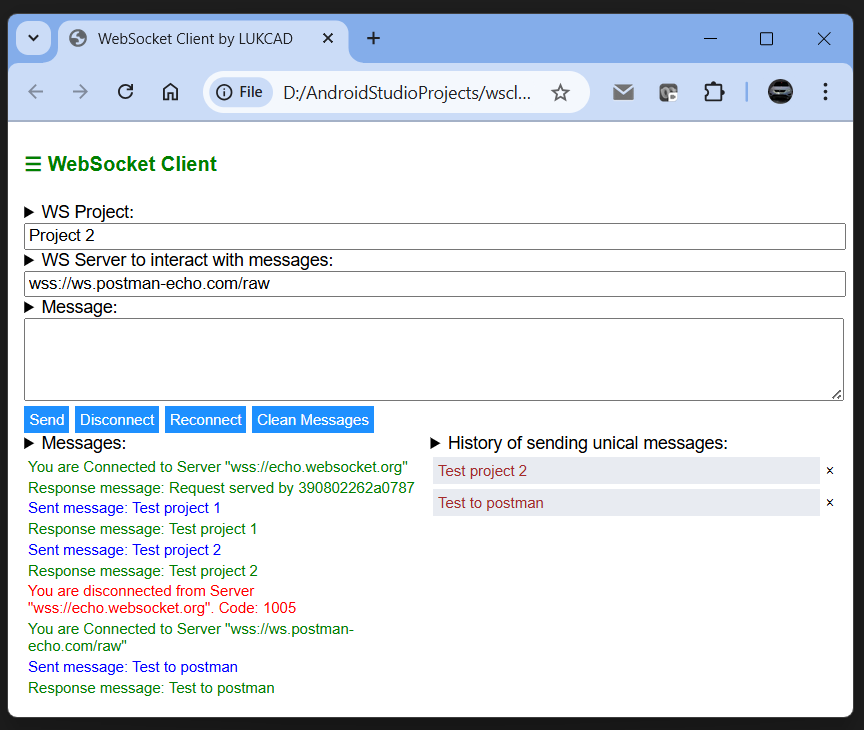
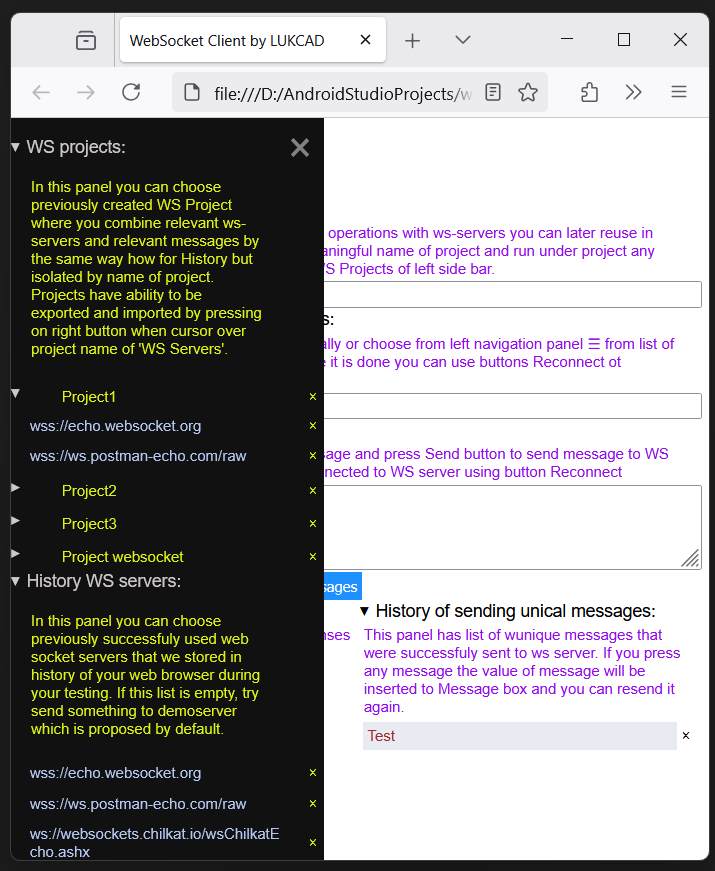
version 1.0.18

diff --git a/wsclient.html b/wsclient.html
@@ -261,6 +261,30 @@
             background: #bbb;
         }
 
+        #menuWSProjectsActions {
+            position: absolute;
+            margin: 0;
+            z-index: 2;
+            padding: 0;
+            width: 140px;
+            background-color: white;
+        }
+
+        #menuWSProjectsActions p {
+            height: 18px;
+            border: 1px solid black;
+            margin: 0;
+            padding: 0.5rem;
+            cursor: pointer;
+            display: flex;
+            flex-direction: column;
+            align-items: center;
+            justify-content: center;
+        }
+
+        #menuWSProjectsActions p:hover {
+            background-color: #D3D3D3;
+        }
 
 
         #menuProjectActions {
@@ -295,10 +319,10 @@
     <div id="barSideNav" class="sidenav">
         <a href="javascript:void(0)" class="closebtn" onclick="closeNav()">&times;</a>
         <details>
-            <summary>WS projects:</summary>
+            <summary title="press right button to open context menu" oncontextmenu="openMenuWSProjectsActions(event)">WS projects:</summary>
             <p>In this panel you can choose previously created WS Project where you combine relevant ws-servers and
                 relevant messages by the same way how for History but isolated by name of project. Projects have ability
-                to be exported and imported.</p>
+                to be exported and imported by pressing on right button when cursor over project name of 'WS Servers'.</p>
         </details>
         <div id="listWsProjects"></div>
         <details ontoggle="showHistoryWsServers()">
@@ -314,13 +338,13 @@
         <h4>
             <div style="cursor:pointer" onclick="openNav()">&#9776; WebSocket Client</div>
         </h4>
-        <details>
+        <details >
             <summary>WS Project:</summary>
             <p> You can point name of project and your next operations with ws-servers you can later reuse in separate
                 cluster from main history. Give meaningful name of project and run under project any socket and then you
                 can find this name in WS Projects of left side bar.</p>
         </details>
-        <input type="text" id="nameProject" onchange="changeProejct()" value="" /> </br>
+        <input type="text" id="nameProject" onchange="changeProject()" value="" /> </br>
         <details>
             <summary>WS Server to interact with messages:</summary>
             <p>You should point here your ws server manually or choose from left navigation panel &#9776; from list of
@@ -338,11 +362,20 @@
         <button class="btn" onclick="reConnect()">Reconnect</button>
         <button class="btn" onclick="clearScreen()">Clean Messages</button>
 
+        <!--Action menu for WS Porjects title. Hidden and appear only by right click-->
+        <div id="menuWSProjectsActions" style="display: none;">
+            <p id="importWSProjects" onclick="clickMenuItemOnWSProjectsActions(event)">Import project</p>
+            <p id="closeWSProjectsMenu" onclick="clickMenuItemOnWSProjectsActions(event)">Close menu</p>
+        </div>
+
         <!--Action menu for porjects. Hidden and appear only by right click-->
         <div id="menuProjectActions" style="display: none;">
-            <p id="exportProject" onclick="clickMenuItemOrijectAction(event)">Export project</p>
-            <p id="closeProjectMenu" onclick="clickMenuItemOrijectAction(event)">Close menu</p>
+            <p id="exportProject" onclick="clickMenuItemOnProjectActions(event)">Export project</p>
+            <p id="closeProjectMenu" onclick="clickMenuItemOnProjectActions(event)">Close menu</p>
         </div>
+        <!-- hidden button to use for import projects for choosing files-->
+        <input type="file" id="projectimportfiles" onchange="readImportedProjectText(this)" name="files[]" hidden="true"
+            multiple />
 
         <div class="main">
             <div class="topRow"></div>
@@ -478,6 +511,36 @@
                 document.getElementById('nameServer').value = wsUri;
             }
 
+            function openMenuWSProjectsActions(e) {
+
+                e.preventDefault();
+
+                var menu = document.getElementById("menuWSProjectsActions");
+
+                // show 'context menu'
+                menu.style.left = e.pageX + "px";
+                menu.style.top = e.pageY + "px";
+                menu.style.display = "block";
+            }
+
+            function clickMenuItemOnWSProjectsActions(et) {
+                // do operations according to context menu here:
+
+                var actionName = et.target.id;
+
+                if (actionName === 'importWSProjects') {
+                    document.getElementById('projectimportfiles').click();
+                }
+
+
+                if (actionName === 'closeWSProjectsMenu') {
+                    // do nothing, because next code close this menu
+                }
+
+                // hide 'context menu'
+                et.target.parentElement.style.display = "none";
+            }
+
             function openMenuProjectActions(e) {
 
                 e.preventDefault();
@@ -495,7 +558,7 @@
                 menu.style.display = "block";
             }
 
-            function clickMenuItemOrijectAction(et) {
+            function clickMenuItemOnProjectActions(et) {
                 // do operations according to context menu here:
                 var _wsprojectname = et.target.title;
                 var _wsprojectid = convertProjectNameToId(_wsprojectname) ?? '';
@@ -526,12 +589,46 @@
                 et.target.parentElement.style.display = "none";
             }
 
+            async function readImportedProjectText(input) {
+                try {
+                    var file = input.files[0];
+                    //var filename = file.name;
+                    var txt = await file.text();
+
+                    var lines = txt.split('\n');
+                    for (var index = 0; index < lines.length; index++) {
+                    var line = lines[index];
+                    if (line.includes('projectname:')) {
+                        var _projectname = line.split('projectname:')[1];
+                        if (_projectname !== '') {
+                            if (arrProjects.indexOf(_projectname) < 0) {
+                                arrProjects.push(_projectname);
+                                var json_prj_str = JSON.stringify(arrProjects);
+                                localStorage.setItem("wsmsprojects", json_prj_str);
+                                reloadProjects();
+                            }
+                        }
+
+                    } else
+                    if (line.includes(':[')) {
+                        var _key = line.split(':[')[0];
+                        var _values = '[' + line.split(':[')[1];
+                        localStorage.setItem(_key, _values);
+
+                    }
+                    }
+
+                } catch (e) {
+                    console.log(e.message);
+                }
+            }
+
             function addProjectElement(wsproject) {
                 var wsprojectname = document.createElement("p");
                 wsprojectname.style.wordWrap = "break-word";
                 wsprojectname.className = "wsprojectname"
                 wsprojectname.onclick = chooseWsProject;
-                wsprojectname.title = "Choose this WS server";
+                wsprojectname.title = "Choose this WS server or press right button to open context menu and export this project";
                 wsprojectname.innerHTML = `${wsproject}`;
                 wsprojectname.oncontextmenu = openMenuProjectActions;
 
@@ -935,7 +1032,7 @@
                 messageInput.value = '';
             }
 
-            function changeProejct() {
+            function changeProject() {
                 setProjectId();
                 setArrHistory();
                 reloadHistory();

diff --git a/README.md b/README.md
@@ -16,9 +16,11 @@ where `socket` supports all actions:
 
 - text box to name specific `WS project` ( if project is not pointed then WS servers and messages are saved in common history which is separate from specific project )
 
-  - if `WS project` is pointed than you can find in left slide menu by icon &#9776; yoour created project in group named as `WS Projects`.
+  - if `WS project` is pointed than you can find in left slide menu by icon &#9776; your created project in group named as `WS Projects`.
   - Every project saves succeded `WS servers` in own node and also own history messages. It helps you interact with your `ws sockets` like with projects in `Postman`.
   - if you don't need project you can delete it. Togethter with project list of ws servers and history that belong to project will be deleted as well.
+  - if you have to import project from your local machine you can do it by item `Import project` from context menu when you press right button on group `WS Projects` when left side bar is opened.
+  - if you need export any project from group of `WS Projects` of left side bar you can press the name of project by right button to start context menu where you can choose `Export project` item.
 
 - text box to point WS server ( by default it is: `wss://echo.websocket.org` );
 - text box to enter message which you wish to send to WS server;
@@ -49,7 +51,7 @@ You can simply clone project from GitHub and start use file `wsclient.html` for 
 ```
 git clone https://github.com/lukcad/wsclient.git
 ```
-![alt text](image-1.png)
 ![alt text](image.png)
+![alt text](image-1.png)
 ![alt text](image-2.png)
 ![alt text](image-3.png)
